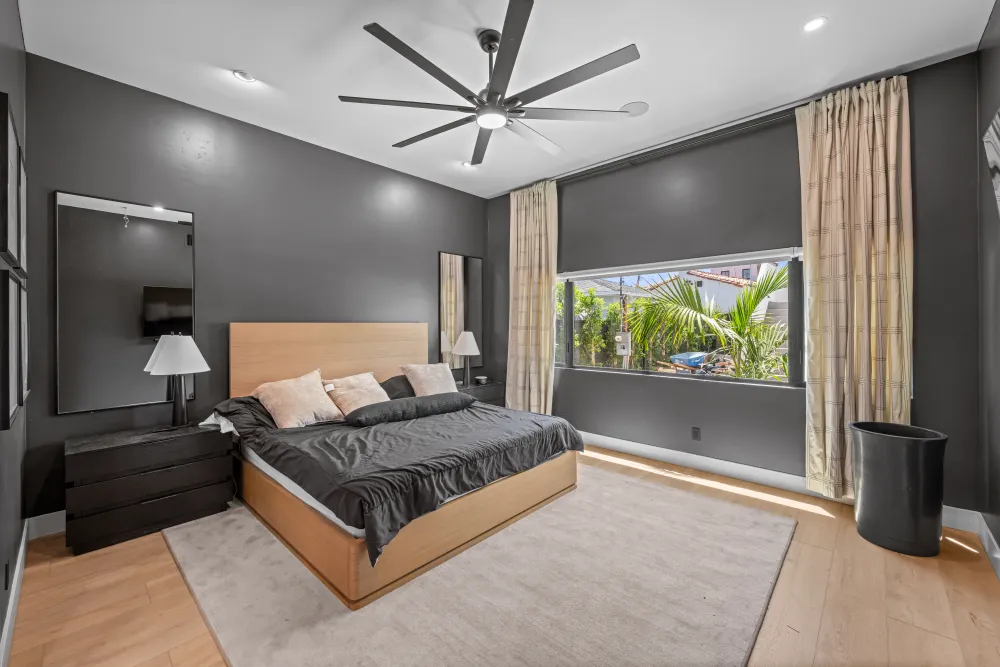
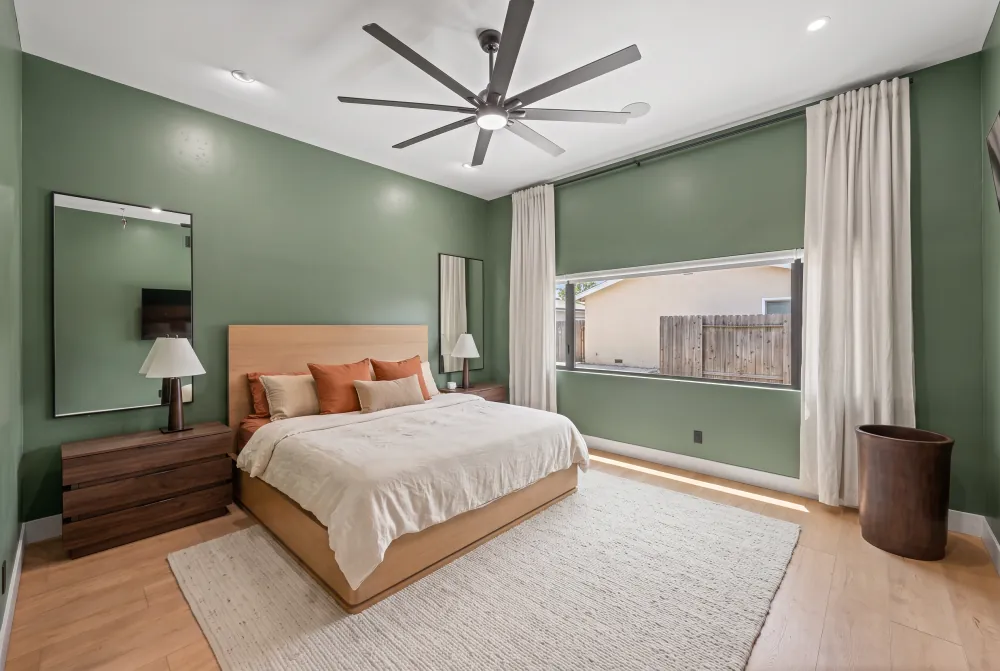
Arabian Crest 9 and 10 reshot, Dalia 17 reshot, Dalia 21 removed
The two Arabian Crest bedrooms are the same rooms repainted, grey to green and
white to green, and the folder names them arabian9 and arabian10 where the
site uses arabiancrest. Mapped on the way in.

Dalia 17 is the same fireplace room from the same corner, so it goes straight
across. Dalia 21 is deleted outright: page, full home renovations, image
sitemap and three files.

Dalia 18 and 20 are held back deliberately and are not in this commit. The
photograph named dalia20 is a living room with built-in shelving, while the
dalia20 slot on the site is a blue panelled powder room that feeds the
bathroom page and the bathrooms gallery. Dropping it in would put a living
room in the bathroom gallery. The one named dalia18 does not match the site's
18 either; it looks closer to the site's 19, which has no replacement in the
folder at all.

diff --git a/home-renovation-rancho-santa-fe-dalia-drive.html b/home-renovation-rancho-santa-fe-dalia-drive.html
@@ -248,7 +248,6 @@
           <img src="dalia18-1000.webp" data-full="dalia18-2000.webp" alt="Dalia Drive home renovation remodel in Rancho Santa Fe — photo 18" class="gallery-image" loading="lazy" />
           <img src="dalia19-1000.webp" data-full="dalia19-2000.webp" alt="Dalia Drive home renovation remodel in Rancho Santa Fe — photo 19" class="gallery-image" loading="lazy" />
           <img src="dalia20-1000.webp" data-full="dalia20-2000.webp" alt="Dalia Drive home renovation remodel in Rancho Santa Fe — photo 20" class="gallery-image" loading="lazy" />
-          <img src="dalia21-1000.webp" data-full="dalia21-2000.webp" alt="Dalia Drive home renovation remodel in Rancho Santa Fe — photo 21" class="gallery-image" loading="lazy" />
         </div>
       </div>
     </section>

diff --git a/full-home-renovations.html b/full-home-renovations.html
@@ -290,7 +290,6 @@
           <img src="dalia18-1000.webp" data-full="dalia18-2000.webp" alt="Dalia Drive full home renovation photo 18" class="gallery-image" loading="lazy" />
           <img src="dalia19-1000.webp" data-full="dalia19-2000.webp" alt="Dalia Drive full home renovation photo 19" class="gallery-image" loading="lazy" />
           <img src="dalia20-1000.webp" data-full="dalia20-2000.webp" alt="Dalia Drive full home renovation photo 20" class="gallery-image" loading="lazy" />
-          <img src="dalia21-1000.webp" data-full="dalia21-2000.webp" alt="Dalia Drive full home renovation photo 21" class="gallery-image" loading="lazy" />
 
         </div>
 
